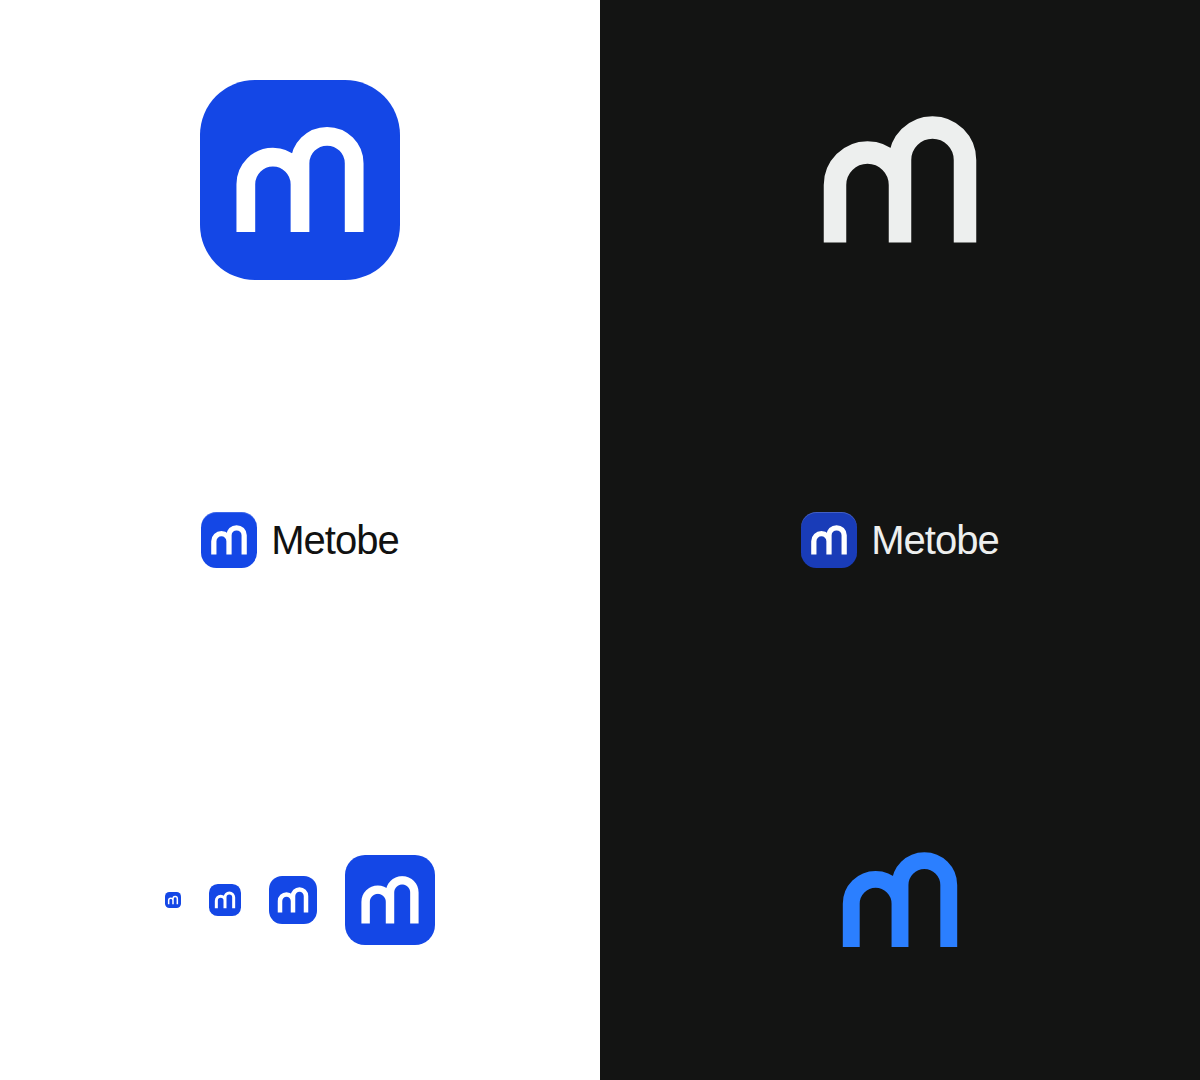
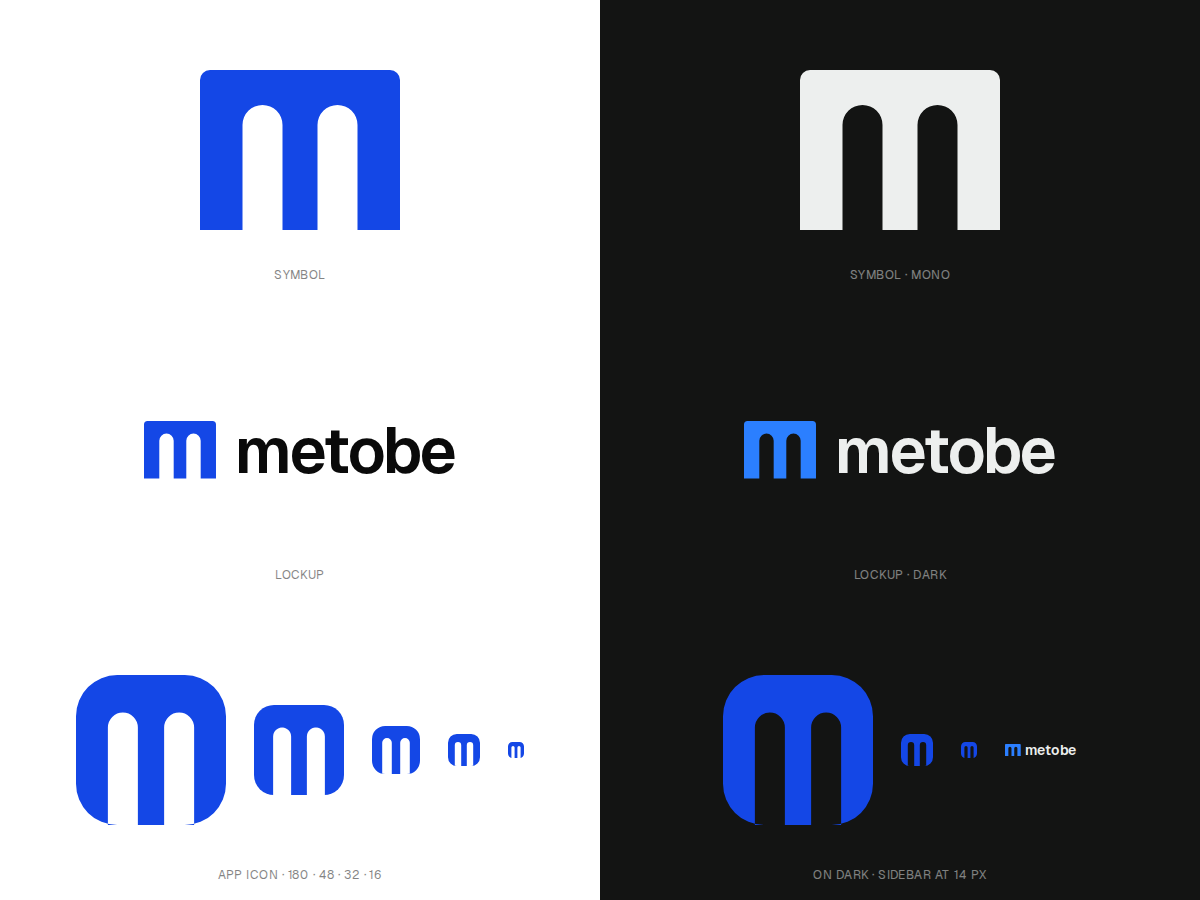
feat: brand — the viaduct symbol instead of the stepped m in a tile
A market pass over AI labs, chat UIs, dev tools and big tech (docs/brand)
showed the letter-in-a-blue-tile as the category default, alongside
sparkles, knots and gradients. The new symbol is a block with two arched
openings: an m in negative space, a viaduct — infrastructure that is
yours. The app icon is the same building grown to the whole tile.

BrandMark renders the symbol in em next to a lowercase «metobe»; icon.svg,
favicon.ico, apple-icon.png and docs/brand are regenerated.

Claude-Session: https://claude.ai/code/session_01KVLKDyND5uJ2TFNNigYFDE

diff --git a/apps/web/components/brand-mark.tsx b/apps/web/components/brand-mark.tsx
@@ -1,24 +1,24 @@
 import { cn } from "@metobe/ui/lib/utils";
 
 /**
- * The Metobe mark: a lowercase m whose second arch stands a step higher than the first — «me → to be». One stroke
- * weight, butt ends, both arches of one radius, on a tile in the brand colour. The same geometry as app/icon.svg and
- * docs/brand; the tile follows the theme's primary.
+ * The Metobe symbol: a block with two arched openings — an m in negative space, a viaduct: infrastructure that is
+ * yours and carries the traffic. Sized in em, so next to the name it follows the font size; filled with currentColor,
+ * the theme's primary by default (its lighter step in the dark theme, where primary sinks into the background).
+ * The app icon (app/icon.svg) is the same building grown to the whole tile.
  */
 export const BrandMark = ({ className }: { className?: string }) => (
-  <span
+  <svg
     aria-hidden
     className={cn(
-      "bg-primary text-primary-foreground inline-flex size-7 shrink-0 items-center justify-center rounded-[27.5%] shadow-[inset_0_1px_0_rgb(255_255_255/0.18)]",
+      "text-primary dark:text-sidebar-primary h-[0.9em] w-auto shrink-0",
       className
     )}
+    viewBox="2 4 20 16"
   >
-    <svg className="size-full" fill="none" viewBox="0 0 24 24">
-      <path
-        d="M5.5 18.25V12.5a3.25 3.25 0 0 1 6.5 0v5.75M12 18.25V10a3.25 3.25 0 0 1 6.5 0v8.25"
-        stroke="currentColor"
-        strokeWidth={2.25}
-      />
-    </svg>
-  </span>
+    <path
+      d="M3 4h18a1 1 0 0 1 1 1v15H2V5a1 1 0 0 1 1-1ZM6.25 20V9.5a2 2 0 0 1 4 0V20Zm7.5 0V9.5a2 2 0 0 1 4 0V20Z"
+      fill="currentColor"
+      fillRule="evenodd"
+    />
+  </svg>
 );

diff --git a/apps/web/app/(auth)/layout.tsx b/apps/web/app/(auth)/layout.tsx
@@ -8,9 +8,9 @@ const AuthLayout = ({ children }: { children: React.ReactNode }) => (
   <div className="bg-background flex min-h-dvh lg:h-dvh">
     <div className="flex min-h-dvh flex-1 flex-col px-5 sm:px-8 lg:min-h-0 lg:overflow-y-auto lg:px-12">
       <header className="flex h-16 shrink-0 items-center lg:h-20">
-        <span className="flex items-center gap-2.5 text-sm font-semibold tracking-tight">
+        <span className="flex items-center gap-[0.3em] text-base font-semibold tracking-tight">
           <BrandMark />
-          Metobe
+          metobe
         </span>
       </header>
       <main className="flex flex-1 items-start pt-[8vh] lg:items-center lg:pt-0">

diff --git a/apps/web/components/chat/chat-shell.tsx b/apps/web/components/chat/chat-shell.tsx
@@ -69,9 +69,9 @@ const initials = (name: string) =>
     .toUpperCase();
 
 const Brand = () => (
-  <span className="flex items-center gap-2 text-sm font-semibold">
-    <BrandMark className="size-6" />
-    Metobe
+  <span className="flex items-center gap-[0.3em] text-sm font-semibold tracking-tight">
+    <BrandMark />
+    metobe
   </span>
 );
 

diff --git a/docs/brand/README.md b/docs/brand/README.md
@@ -2,29 +2,51 @@
 
 ![Знак Metobe](preview.png)
 
-Строчная **m**, у которой вторая арка стоит на ступень выше первой: «me → to be», шаг вверх. Больше в знаке ничего нет.
+Блок с двумя арочными проёмами. В негативном пространстве — строчная **m**, в позитивном — виадук: инфраструктура, которая стоит у тебя и несёт через себя трафик. Это и есть продукт: self-hosted рабочее место, через которое команда ходит ко всем моделям, прокси и инструментам.
 
-## Геометрия (сетка 24 × 24)
+## Почему так: разбор рынка
 
-- Три ножки на x = 5.5 / 12 / 18.5 — равный шаг 6.5, знак центрирован по горизонтали.
-- Обе арки одного радиуса 3.25; центр первой на y = 12.5, второй — на y = 10. Ступень 2.5 ≈ толщина штриха.
-- Штрих 2.25, концы срезаны (butt), ножки заканчиваются на одной линии y = 18.25.
-- Плитка — скругление 27.5 % стороны (rx 6.6 из 24). Оптический центр знака совпадает с центром плитки.
+Что делают сильные бренды IT и AI и где у всех общие штампы.
+
+| Кластер | Кто | Приём |
+| --- | --- | --- |
+| AI-лаборатории | OpenAI, Claude, Gemini, Copilot, Perplexity, Grok | искра ✦ / звёздочка / вспышка, узел-розетка, косая черта |
+| Большие AI-платформы | Meta AI, Gemini, Copilot | градиентное кольцо или лента, сине-фиолетовый «аврора» |
+| Модели с открытыми весами | Mistral, DeepSeek, Qwen, Hugging Face | пиксели, маскоты (кит, эмодзи), шестигранники |
+| Прямые конкуренты | Open WebUI, LibreChat, LobeChat, AnythingLLM | пузырь чата, буква в скруглённом квадрате, градиент |
+| Инструменты разработчика | Vercel, Linear, Supabase, Cursor, Raycast | один чёрный примитив (треугольник, круг, куб), одна фирменная краска |
+| Биг-тех | Apple, Microsoft, Google, IBM | один силуэт, работает в одном цвете и на 16 px |
+
+**Штампы, которых мы избегаем:** искры и звёздочки (главный визуальный код «тут AI»), нейросети, узлы и схемы, мозги, бесконечности и узлы-розетки, орбиты, шестигранники, пузыри чата, градиенты, буква в синей плитке (так выглядела и наша заглушка).
+
+**Что даёт доверие:** точная геометрия, один силуэт, один цвет без градиента, работа в монохроме и в фавиконке.
+
+**Где свободно:** архитектурная форма. Арок и строений в IT почти нет. Они говорят «своё, надёжное, на века» — ровно то, что self-hosted обещает в отличие от облачного чата. Сплошной массив тоже отстраивается от тонких линий и градиентов соседей.
+
+## Система
+
+- **Символ** (`metobe-symbol.svg`) — логотип: блок 5 : 4 со слегка скруглёнными верхними углами. Для связки со словом, документов и сайта.
+- **Иконка приложения** (`metobe-icon.svg` = `apps/web/app/icon.svg`) — то же здание, выросшее до всей плитки: проёмы выходят через нижний край. Плитка сама становится знаком, а не подложкой под букву.
+- **Связка:** символ + «metobe» строчными, Geist Semibold, трекинг `-0.025em`. Высота символа — `0.9em`, отступ — `0.3em`, так что связка масштабируется одним `font-size`. В интерфейсе — компонент `BrandMark` (`apps/web/components/brand-mark.tsx`).
+
+## Геометрия
+
+Символ, сетка 20 × 16 (viewBox `2 4 20 16`):
+
+- опоры 4.25 / 3.5 / 4.25, проёмы по 4 — ширина 20 без остатка;
+- арки — полукруги радиусом 2 с вершиной на y = 7.5, так что перемычка над ними (3.5) равна средней опоре;
+- проёмы открыты вниз до основания, верхние углы блока скруглены на 1.
+
+Иконка — те же пропорции в плитке 24 × 24: опоры 5.1 / 4.2 / 5.1, проёмы 4.8, вершины арок на y = 6, плитка скруглена на 6.6.
 
 ## Цвет
 
-Только цвет бренда из `packages/ui/src/styles/globals.css`: `--primary` (светлая тема `oklch(0.488 0.243 264.376)` ≈ `#1447e6`) и белый знак на нём. Монохромная версия — `currentColor`, на любом нейтральном фоне. Других цветов, градиентов и теней нет.
+Один цвет бренда из `packages/ui/src/styles/globals.css`, без градиентов и теней:
 
-## Файлы
-
-| Файл | Для чего |
-| --- | --- |
-| `metobe-icon.svg` | иконка приложения: знак на плитке (копия `apps/web/app/icon.svg`) |
-| `metobe-mark.svg` | знак без плитки в цвете бренда |
-| `metobe-mark-mono.svg` | знак без плитки в `currentColor` |
-
-В интерфейсе знак — компонент `BrandMark` (`apps/web/components/brand-mark.tsx`), его плитка берёт `--primary` темы. Словесная часть — «Metobe» набором Geist Semibold с трекингом `-0.025em` (`tracking-tight`), отступ от знака — 0.625rem.
+- светлая тема — `--primary`, `oklch(0.488 0.243 264.376)` ≈ `#1447e6`;
+- тёмная тема — `--sidebar-primary`, `oklch(0.623 0.214 259.815)`: более тёмный `--primary` теряется на фоне;
+- монохром — `currentColor` (`metobe-symbol-mono.svg`), на любом спокойном фоне.
 
 ## Нельзя
 
-Растягивать, поворачивать, менять ступень или толщину, обводить, ставить знак на пёстрый фон без плитки.
+Растягивать, поворачивать, менять число или пропорции проёмов, обводить, красить градиентом, класть символ в плитку (для плитки есть иконка), добавлять искры и прочие «AI»-значки.
